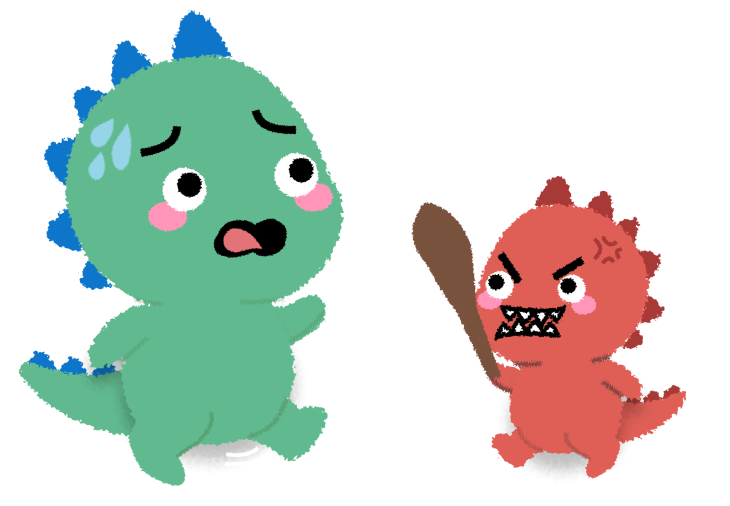
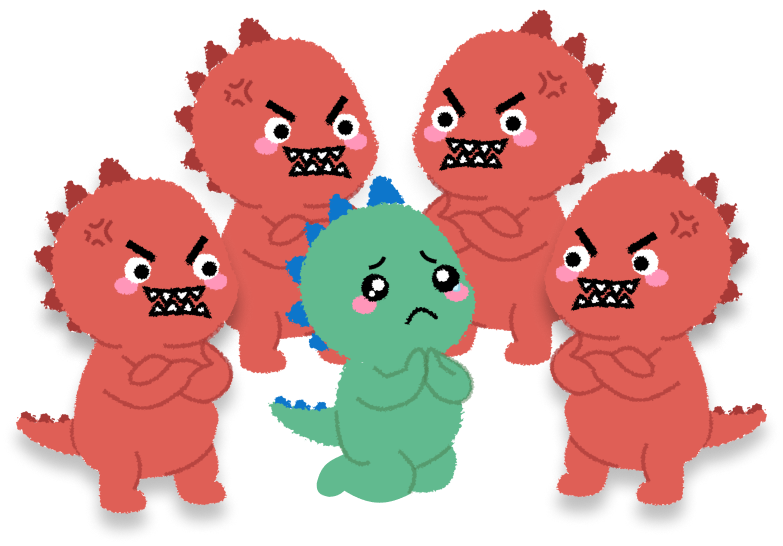
✨ Update Thai text for user prompts and status messages in meetup screens

diff --git a/lib/features/meetups/screens/live_meetup_screen.dart b/lib/features/meetups/screens/live_meetup_screen.dart
@@ -627,28 +627,30 @@ class _CurrentUserStatusCard extends StatelessWidget {
     }
 
     final currentUser = meetup.currentUser;
+    final isPastMeetupTime = DateTime.now().isAfter(meetup.startTime);
 
     switch (currentUser.arrivalStatus) {
       case MemberArrivalStatus.arrived:
-        return const _StatusCard(
-          headline: 'ฝากทีไปตามเพื่อนดีกว่า',
-          imagePath: 'assets/images/mascots/waiting.png',
+        return _StatusCard(
+          headline: isPastMeetupTime
+              ? 'โด้นนน โดนสักทีเถอะ!!!'
+              : 'รอเพื่อนแปป',
+          imagePath: isPastMeetupTime
+              ? 'assets/images/mascots/t.png'
+              : 'assets/images/mascots/waiting.png',
         );
       case MemberArrivalStatus.onTheWay:
-        final aFriendArrived = meetup.otherMembers.any(
-          (m) => m.arrivalStatus == MemberArrivalStatus.arrived,
-        );
         return _StatusCard(
-          headline: aFriendArrived
-              ? 'สายแล้ว!!\nเพื่อนกำลังรอคุณอยู่'
-              : 'กำลังเดินทางไปจุดนัด',
-          imagePath: aFriendArrived
+          headline: isPastMeetupTime
+              ? 'สายแล้ว!!\nเพื่อนกำลังสาปคุณอยู่'
+              : 'กำลังเดินทางไป',
+          imagePath: isPastMeetupTime
               ? 'assets/images/mascots/late.png'
               : 'assets/images/mascots/walking.png',
         );
       case MemberArrivalStatus.notLeftYet:
         return _StatusCard(
-          headline: 'ออกสักทีเถอะ!',
+          headline: 'ออกได้ละ!!!',
           imagePath: 'assets/images/mascots/prep.png',
           action: _StatusActionPill(
             label: 'ออกแล้วจ้า',
@@ -889,7 +891,7 @@ class _NudgeButton extends StatelessWidget {
               ),
             ),
             const SizedBox(width: 6),
-            Text(isOnCooldown ? 'โดนละ' : 'ฝากที'),
+            Text(isOnCooldown ? 'โดนละ' : 'สักที'),
           ],
         ),
       ),

diff --git a/lib/features/meetups/screens/meetup_detail_screen.dart b/lib/features/meetups/screens/meetup_detail_screen.dart
@@ -261,12 +261,12 @@ class _LiveMembersSection extends StatelessWidget {
             crossAxisAlignment: CrossAxisAlignment.stretch,
             children: [
               Text(
-                'ถ่ายทอดสด · ถึงแล้ว ${meetup.arrivedCount} คน',
+                'ถึงแล้ว ${meetup.arrivedCount} คน',
                 style: AppTextStyles.titleMd.copyWith(color: BadgeColors.positive),
               ),
               const SizedBox(height: AppSpacing.md),
               PillButton(
-                label: 'ดูตำแหน่งสด',
+                label: 'อยู่ไหนกันแล้ว',
                 onPressed: () => context.push('/meetup/${meetup.id}/live'),
               ),
             ],

diff --git a/lib/core/router/app_router.dart b/lib/core/router/app_router.dart
@@ -131,7 +131,7 @@ class _SplashScreen extends StatelessWidget {
           children: [
             Image.asset('assets/images/logo.png', width: 120, height: 120),
             const SizedBox(height: AppSpacing.lg),
-            Text('ฝากที', style: AppTextStyles.displayLg),
+            Text('สักที', style: AppTextStyles.displayLg),
             const SizedBox(height: AppSpacing.xxl),
             const CircularProgressIndicator(),
           ],
